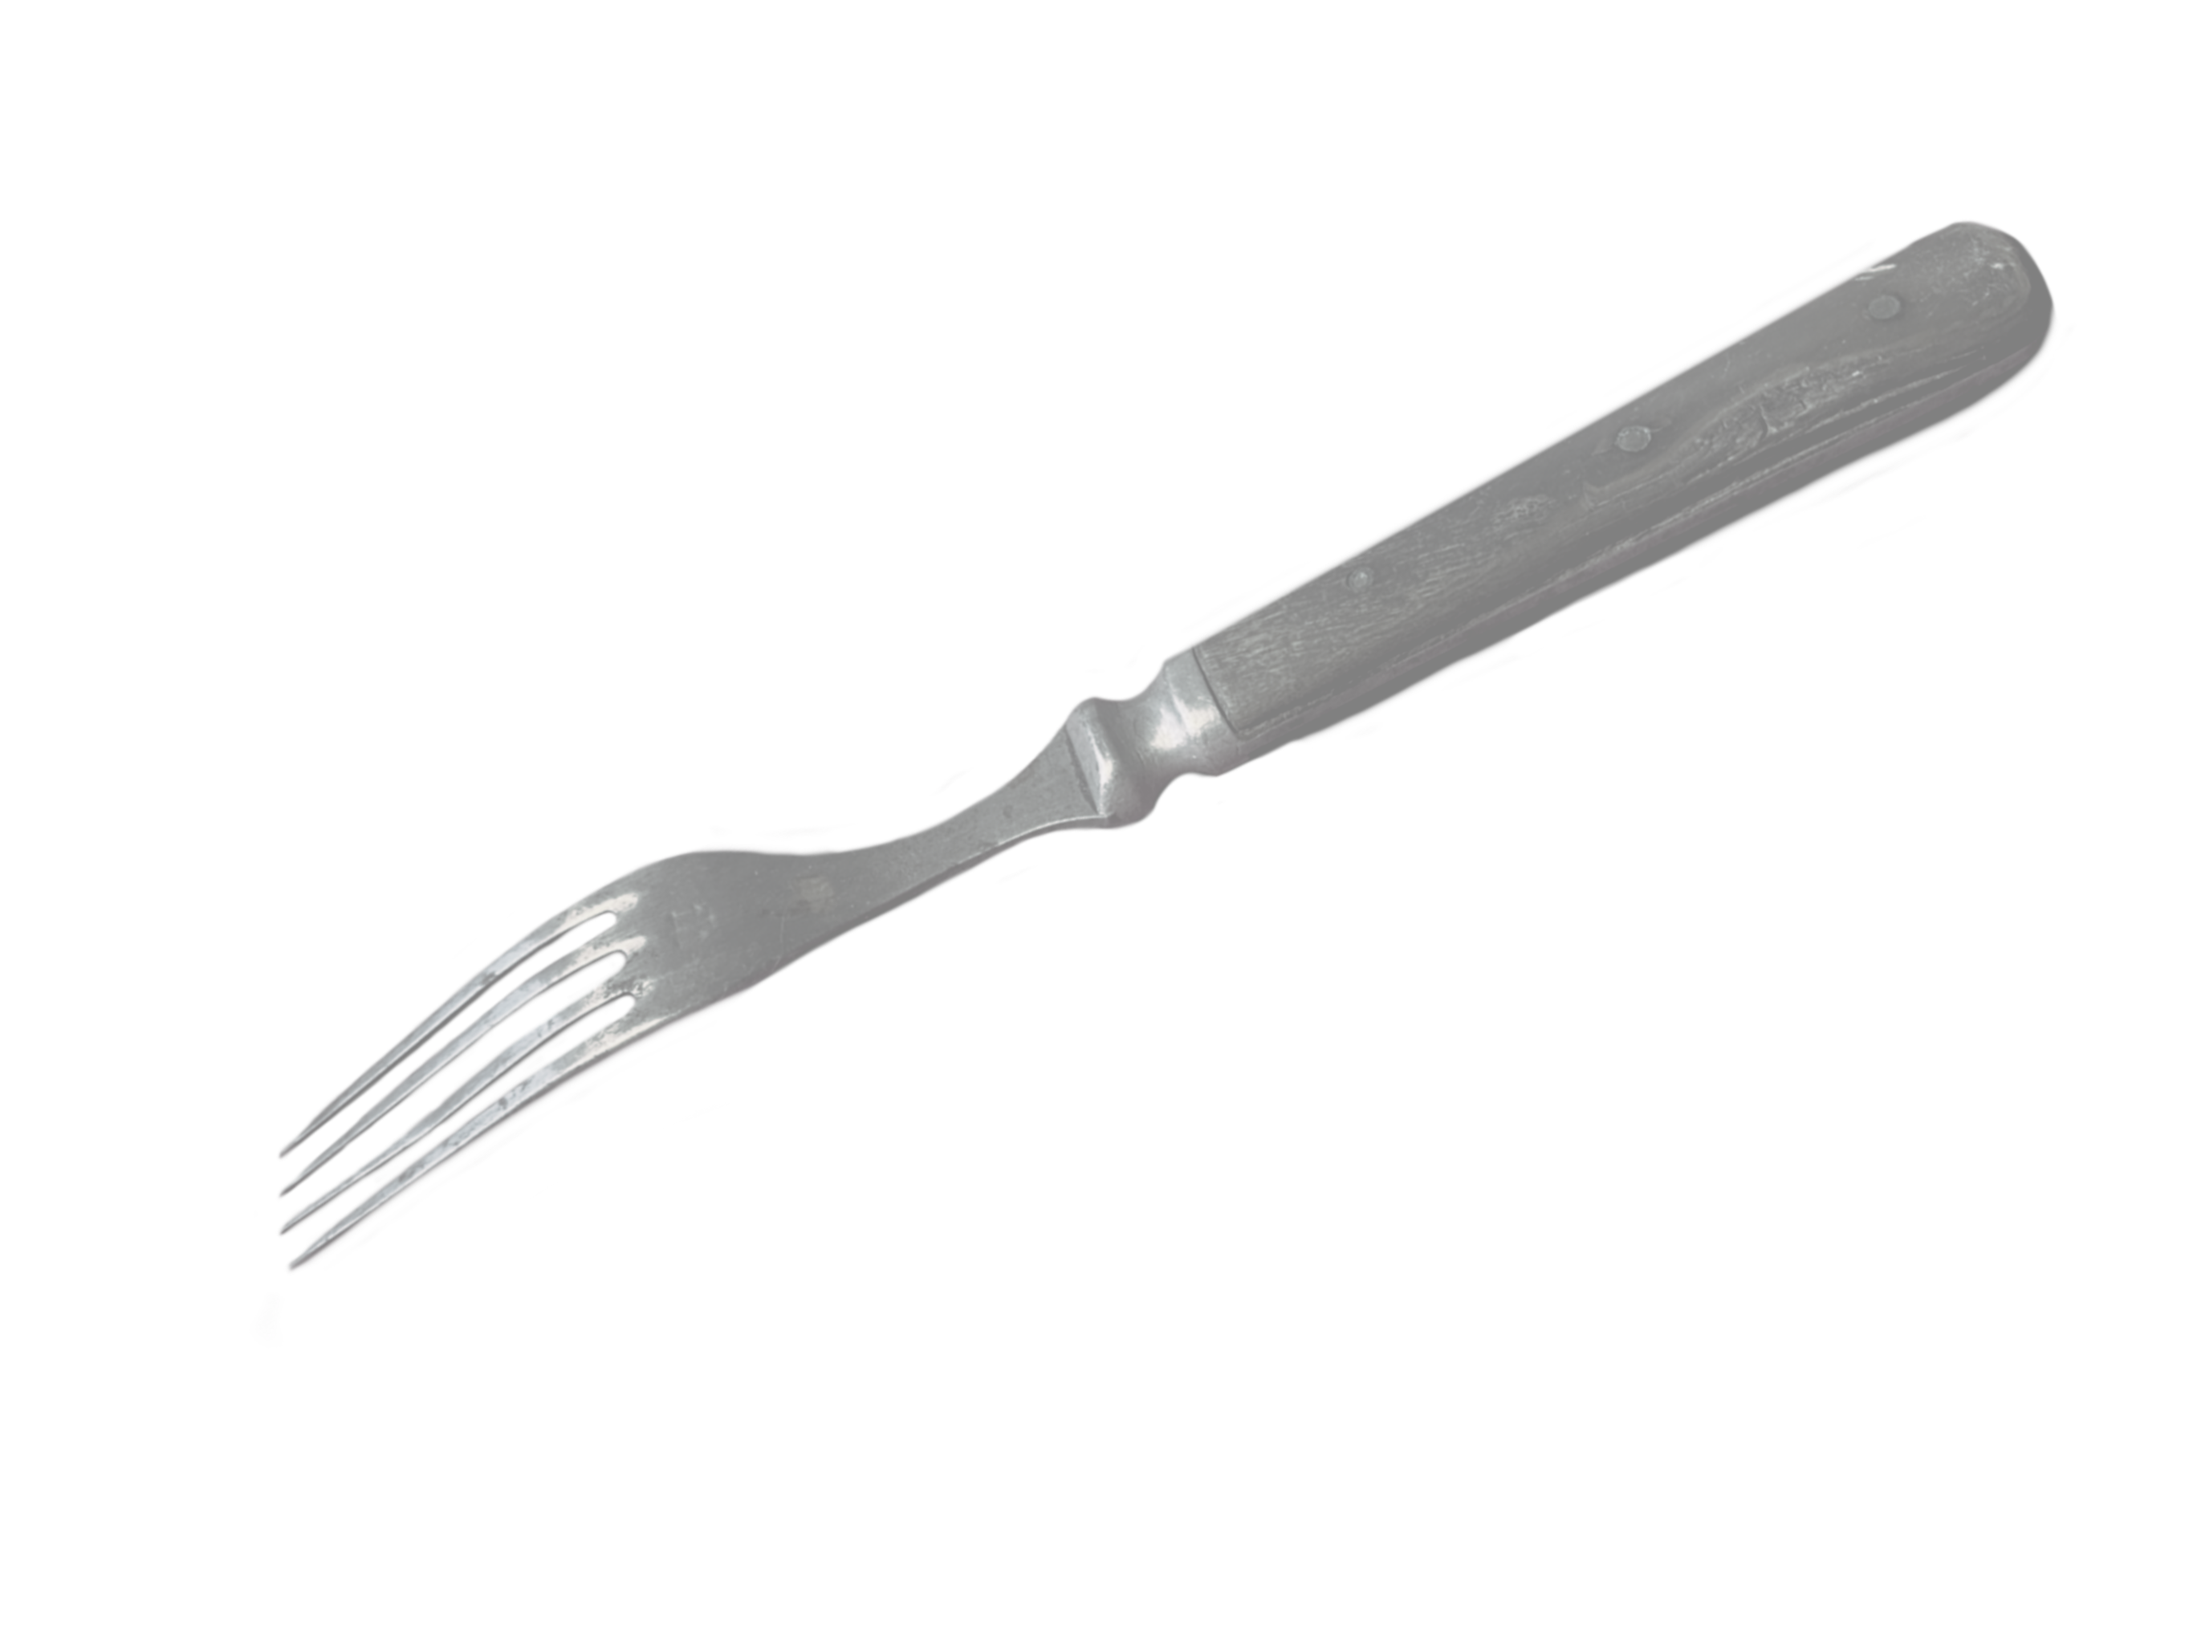
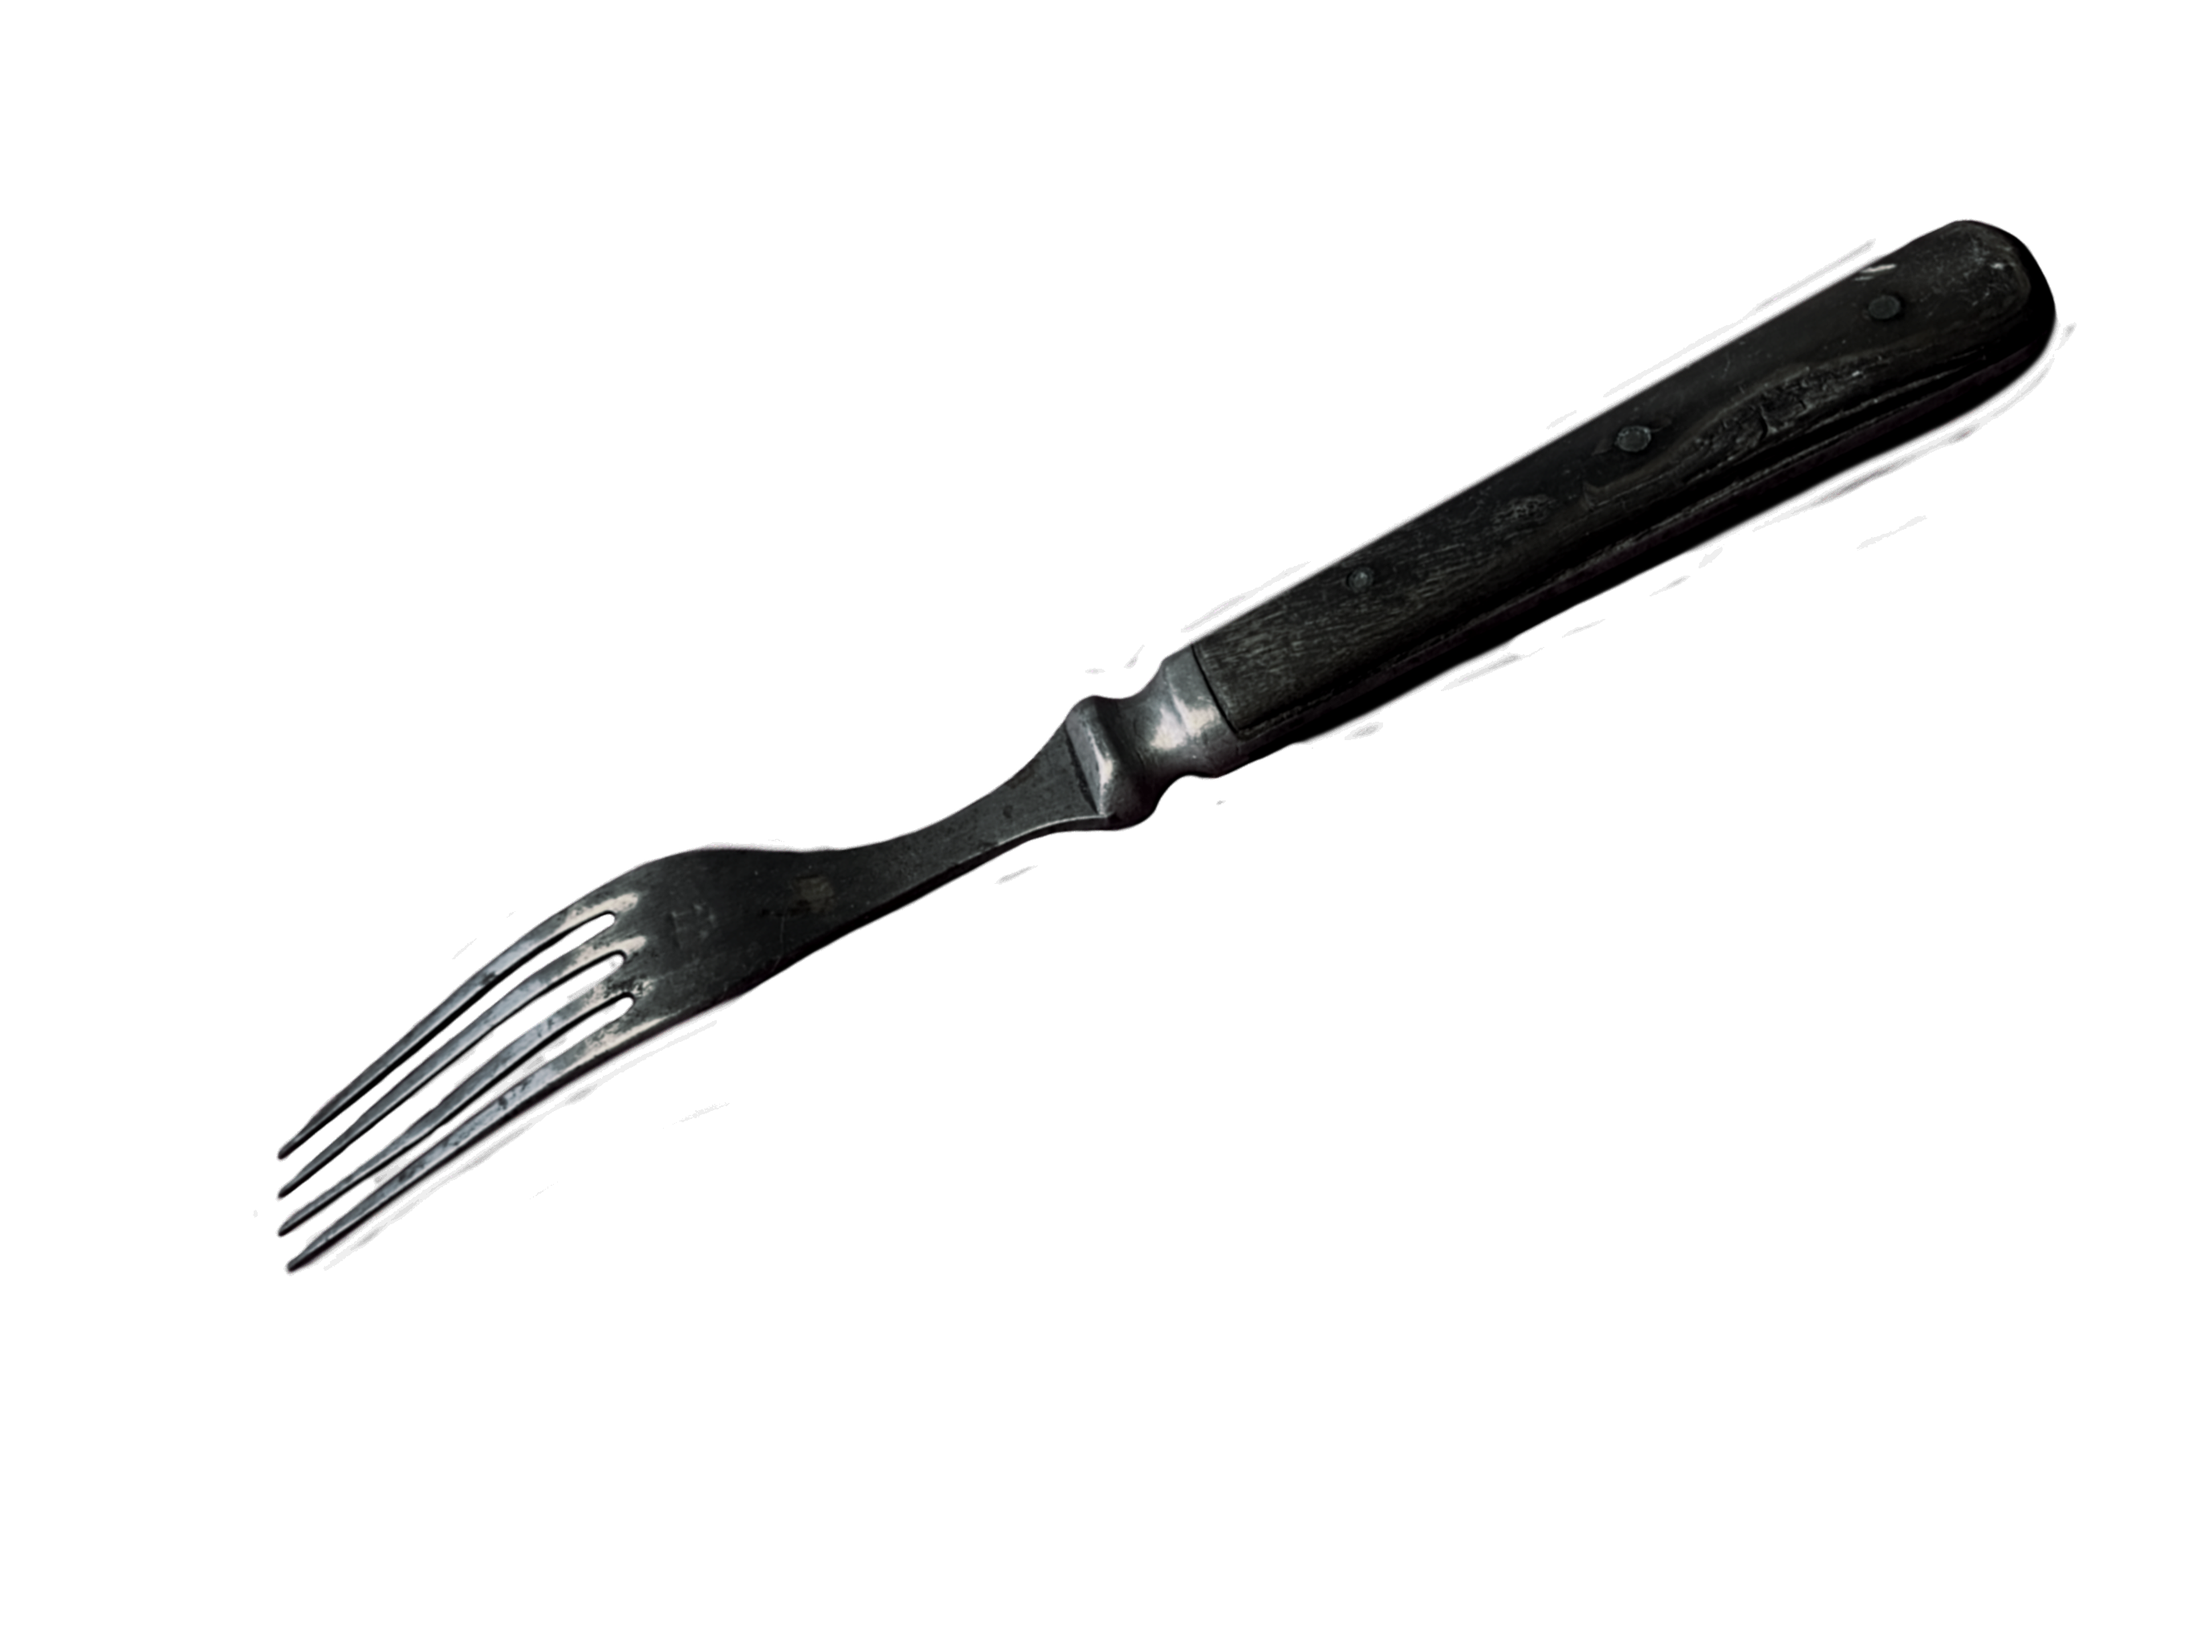
gallery

Changed region(s): [[0.1245, 0.125, 0.9645, 0.7812]]

diff --git a/website/style.css b/website/style.css
@@ -27,7 +27,7 @@ html {
     background-color: #0026ff;
     display: flex;
     justify-content: center;
-    align-items: center;
+    align-items: flex-start;
 }
 
 footer {
@@ -166,7 +166,7 @@ footer {
 /* #region blog-history */
 
 .history-layout {
-    width: 60%;
+    width: 70%;
     height: auto;
     margin: auto;
     padding: 1rem;
@@ -200,4 +200,116 @@ footer {
 
 /* #endregion */
 
-/*
+/* #region gallery */
+
+.masonry {
+    width: 60%;
+    padding: 4rem 0;
+    display: flex;
+    align-items: flex-start;
+    gap: 3vw;
+}
+
+.masonry-column {
+    display: flex;
+    flex-direction: column;
+    break-inside: avoid;
+}
+
+.masonry-column:first-child {
+    width: 45%;
+}
+
+.masonry-column:last-child {
+    width: 55%;
+    padding-top: 10%;
+}
+
+.masonry .turnable {
+    margin-bottom: 2rem;
+    break-inside: avoid;
+}
+
+.masonry img {
+    width: 100%;
+    height: auto;
+    display: block;
+}
+
+/* #endregion */
+
+/* #region effects */
+
+.shakeable:hover {
+    animation: shake 0.3s linear infinite;
+}
+
+@keyframes shake {
+
+    0%,
+    100% {
+        rotate: 0deg;
+    }
+
+    25% {
+        rotate: calc(var(--shake, 1deg) * -1);
+    }
+
+    75% {
+        rotate: var(--shake, 1deg);
+    }
+}
+
+.turnable {
+    perspective: 1000px;
+    transition: scale 0.2s;
+}
+
+.turnable:hover {
+    scale: 1.02;
+}
+
+.turnable-inner {
+    position: relative;
+    width: 100%;
+    transform-style: preserve-3d;
+    transition: transform 0.6s;
+}
+
+.turnable.turned .turnable-inner {
+    transform: rotateY(180deg);
+}
+
+.turnable-front,
+.turnable-back {
+    backface-visibility: hidden;
+}
+
+.turnable-front img {
+    display: block;
+    width: 100%;
+    height: auto;
+}
+
+.turnable-back {
+    position: absolute;
+    inset: 0;
+    transform: rotateY(180deg);
+    display: flex;
+    align-items: center;
+    justify-content: center;
+    padding: 1rem;
+    text-align: center;
+    background-color: #0026ff;
+    border: 1px solid white;
+}
+
+/* #endregion */
+
+@media only screen and (max-width: 767px) {
+
+    body,
+    html {
+        font-size: 0.6rem;
+    }
+}

diff --git a/website/gallery.js b/website/gallery.js
@@ -1,0 +1,46 @@
+const gallery = document.getElementById("gallery");
+
+async function loadGallery() {
+    const folder = gallery.dataset.folder;
+
+    try {
+        const response = await fetch(folder + "descriptions.json");
+        const data = await response.json();
+
+        const column1 = document.createElement("div");
+        const column2 = document.createElement("div");
+
+        column1.className = "masonry-column";
+        column2.className = "masonry-column";
+
+        gallery.appendChild(column1);
+        gallery.appendChild(column2);
+
+        data.images.forEach((image, index) => {
+            const item = document.createElement("div");
+            item.className = "turnable shakeable";
+            item.dataset.backText = image.description;
+
+            const img = document.createElement("img");
+            img.src = folder + image.filename;
+            img.alt = image.description;
+            img.title = image.description;
+            img.draggable = false;
+
+            item.appendChild(img);
+
+            if (index % 2 === 0) {
+                column1.appendChild(item);
+            } else {
+                column2.appendChild(item);
+            }
+        });
+
+        initEffects(gallery);
+    }
+    catch (err) {
+        console.error("descriptions.json caught error: ", err);
+    }
+}
+
+loadGallery();

diff --git a/website/cursor.js b/website/cursor.js
@@ -1,5 +1,13 @@
 const cursor = document.getElementById("cursor");
 
+function isTouchDevice() {
+    return window.ontouchstart !== undefined;
+}
+
+if (isTouchDevice()) {
+    //cursor.remove()
+}
+
 const curs = {
     fork: {
         src: "../img/fork.png",
@@ -34,9 +42,10 @@ function updateCurs(x, y) {
     cursor.style.transform = `translate(${x - cur.hotspot.x}px, ${y - cur.hotspot.y}px)`;
 }
 
+const interactive = "a, button, .clickable, .draggable, .turnable";
 // href
 document.addEventListener("mouseover", e => {
-    if (e.target.closest("a, button, .clickable, .draggable")) {
+    if (e.target.closest(interactive)) {
         setCursor("cherry");
     } else {
         setCursor("fork");
@@ -45,14 +54,14 @@ document.addEventListener("mouseover", e => {
 
 // mdown
 document.addEventListener("mousedown", e => {
-    if (e.target.closest("a, button, .clickable, .draggable")) {
+    if (e.target.closest(interactive)) {
         setCursor("both");
     }
 });
 
 // mup
 document.addEventListener("mouseup", e => {
-    if (e.target.closest("a, button, .clickable, .draggable")) {
+    if (e.target.closest(interactive)) {
         setCursor("cherry");
     } else {
         setCursor("fork");

diff --git a/website/effects.js b/website/effects.js
@@ -1,0 +1,35 @@
+function initEffects(root = document) {
+    root.querySelectorAll(".shakeable").forEach(el => {
+        if (el.dataset.shake) {
+            el.style.setProperty("--shake", el.dataset.shake + "deg");
+        }
+    });
+
+    root.querySelectorAll(".turnable:not([data-ready])").forEach(el => {
+        el.dataset.ready = "true";
+
+        const inner = document.createElement("div");
+        const front = document.createElement("div");
+        const back = document.createElement("div");
+
+        inner.className = "turnable-inner";
+        front.className = "turnable-front";
+        back.className = "turnable-back";
+
+        front.append(...el.childNodes);
+
+        if (el.dataset.backText) {
+            back.textContent = el.dataset.backText;
+        } else {
+            const source = document.querySelector(el.dataset.back);
+            if (source) back.innerHTML = source.innerHTML;
+        }
+
+        inner.append(front, back);
+        el.appendChild(inner);
+
+        el.addEventListener("click", () => el.classList.toggle("turned"));
+    });
+}
+
+initEffects();

diff --git a/website/html/photography.html b/website/html/photography.html
@@ -10,12 +10,12 @@
     <img id="cursor" src="../img/fork.png">
     <script src="../cursor.js"></script>
 
-    
     <a href="javascript:history.back()"><img src="../img/open.png" alt="return" id="animated" class="element return"></a>
     <script src="../back.js"></script>
+
     <div class="wrapper">
-        <div class="layout">
-            
-        </div>
+        <div class="masonry" id="gallery" data-folder="../../content/photography/"></div>
     </div>
+    <script src="../effects.js"></script>
+    <script src="../gallery.js"></script>
 </body>

diff --git a/website/html/index.html b/website/html/index.html
@@ -27,5 +27,9 @@
             <a href="shop.html"><img src="../img/faces2.png" class="element faces" alt="shop" title="Shop"></a>
         </div>
     </div>
+
+    <footer>
+        
+    </footer>
 </body>
 </html>
